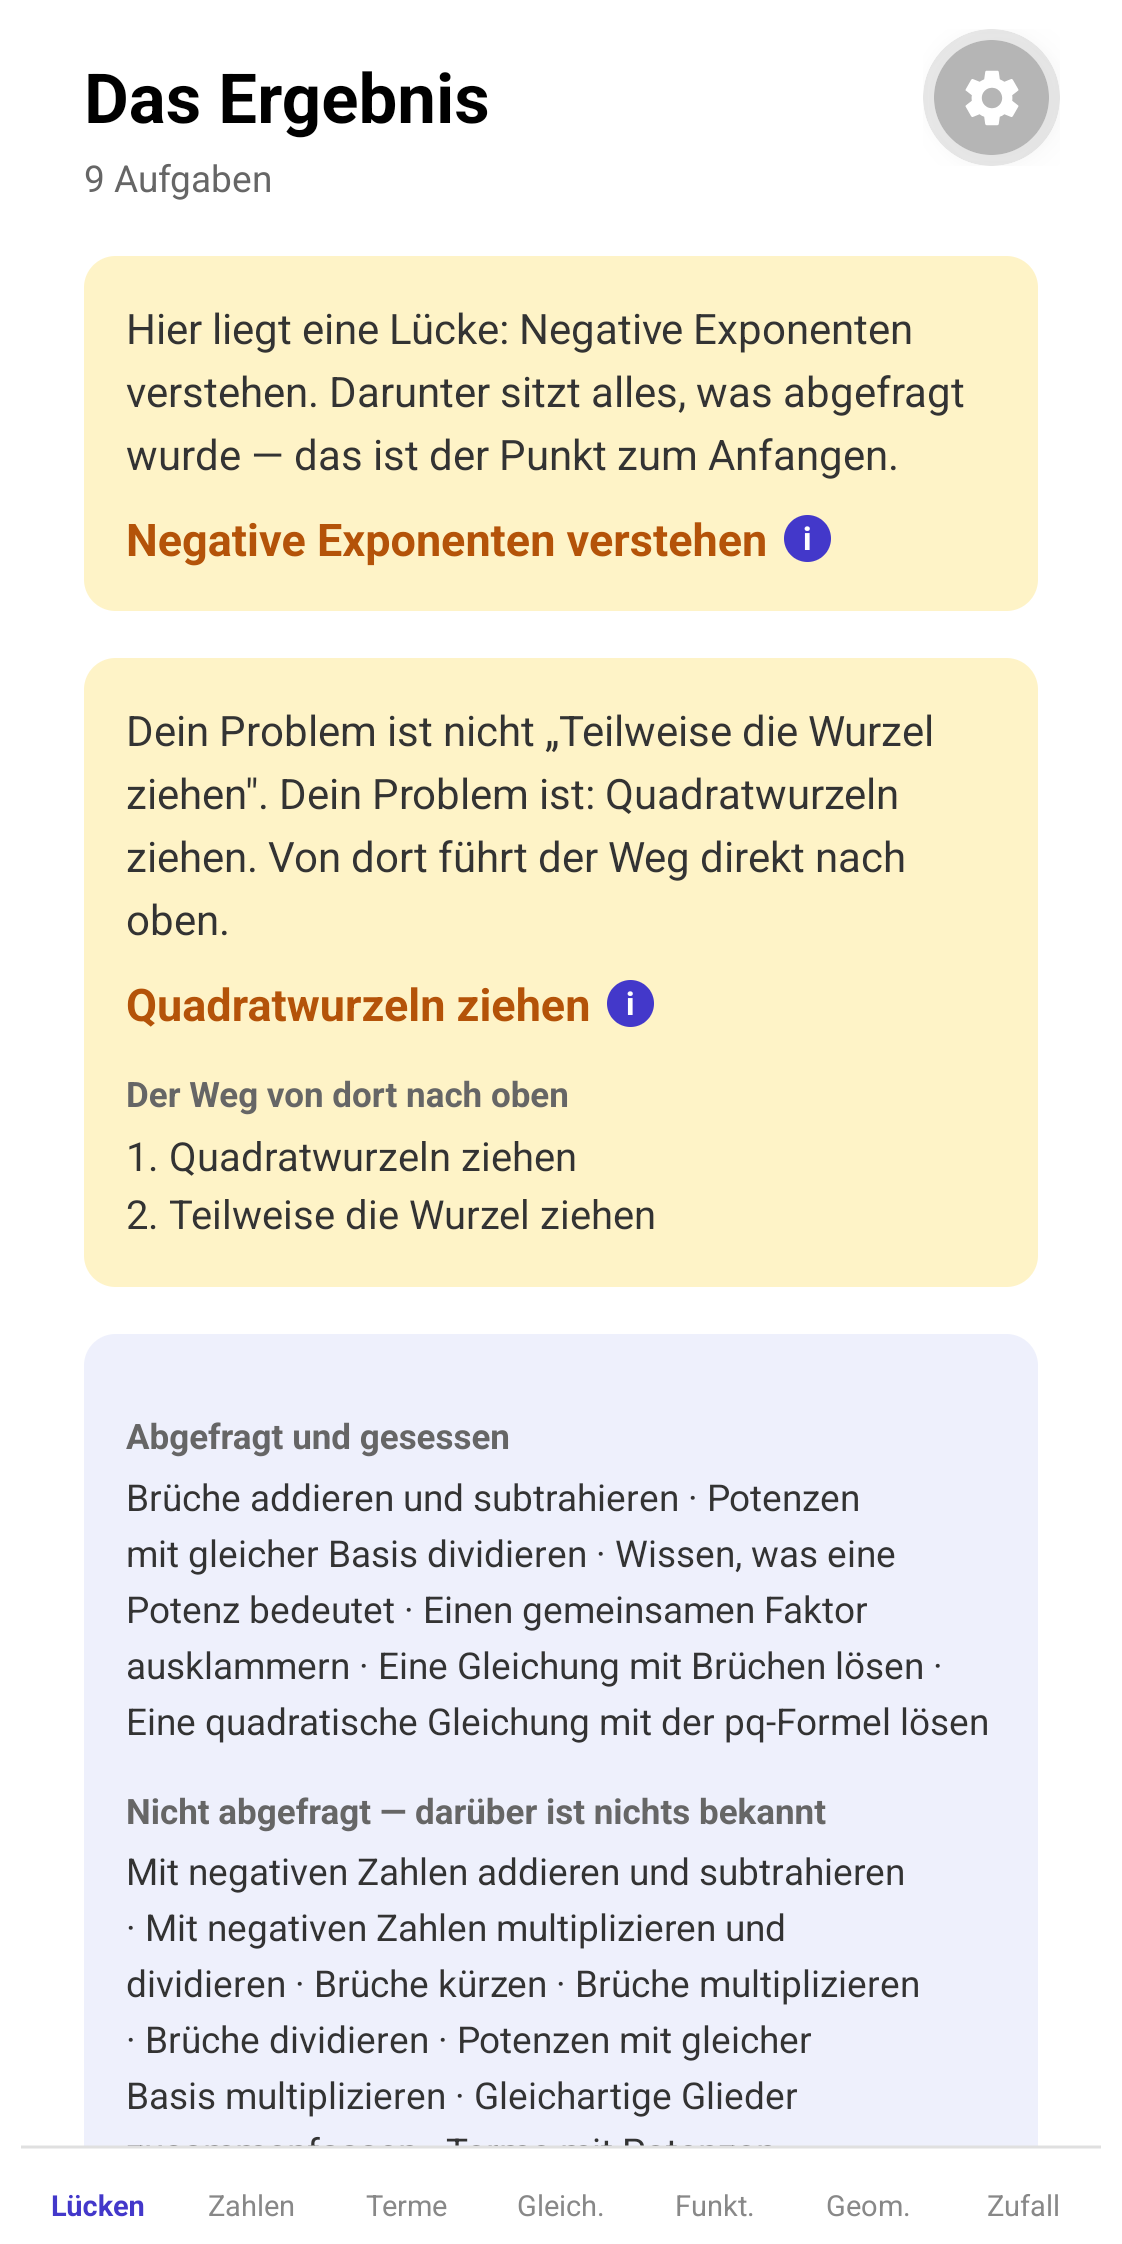
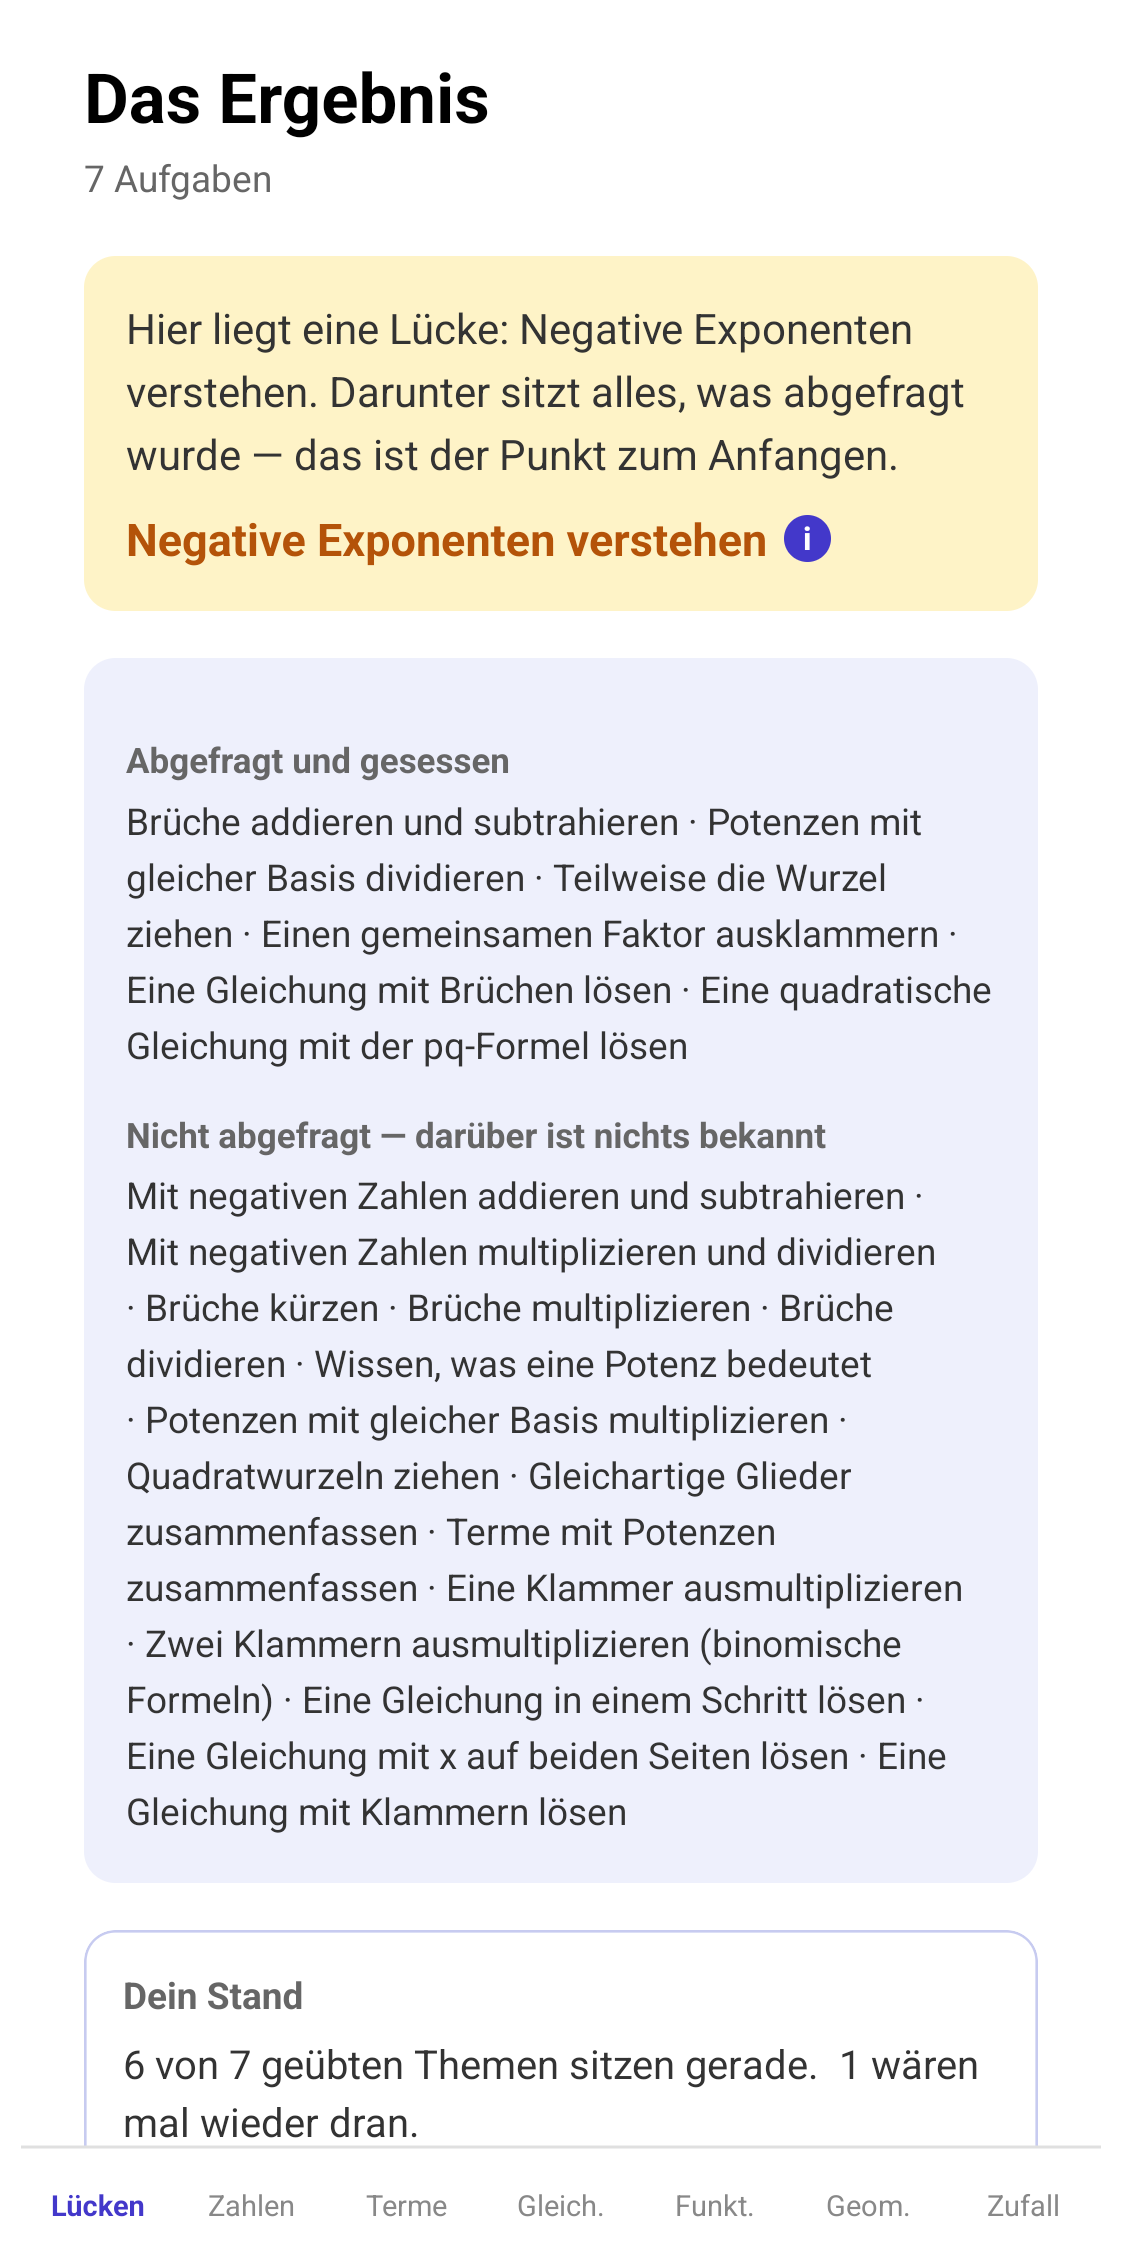
Screenshots neu — aus der echten App statt aus Expo Go
Auf allen acht bisherigen Bildern saß oben rechts ein grauer
Zahnrad-Knopf. Der gehört nicht zur App: Es ist der "Tools"-Knopf von
Expo Go. App.js rendert nur Inhalt und Tab-Leiste, es gibt gar keine
Kopfzeile mit Bedienelement. Der Store-Eintrag hätte damit etwas
gezeigt, das kein Nutzer je sieht.

Aufgefallen ist es nicht beim Anschauen der Bilder — ich hatte sie
mehrfach vor Augen —, sondern beim Gegenlesen der Familienrichtlinie,
als ich wissen wollte, was dieser Knopf eigentlich tut und ihn im Code
nicht fand.

Neu aufgenommen aus einem installierten APK (Profil preview). Die Probe
dafür steht jetzt in CLAUDE.md: Im Fokus muss
com.hink.mathe/com.hink.mathe.MainActivity stehen, nicht
host.exp.exponent. Und der Zuschnitt wird an genau der Stelle
gegengeprüft, an der der Knopf saß — weiß heißt sauber.

Der Durchlauf des Lückenfinders ist diesmal klarer geraten: genau EINE
Lücke ("Negative Exponenten verstehen"), alles darunter abgefragt und
richtig. Beim ersten Mal standen dort zwei Befunde, einer davon nur
deshalb, weil meine Automatisierung eine Eingabe verschluckt hatte.

Claude-Session: https://claude.ai/code/session_019KhvU7xvjHLP6VD4y9TvRL

diff --git a/CLAUDE.md b/CLAUDE.md
@@ -866,10 +866,29 @@ als `#000000` und nicht als `gray(0)`. Der Filter traf nie, und gemeldet
 wurde die Bildecke. Aufgefallen ist es nur, weil die Zahl (721 px)
 offensichtlich unmöglich war.
 
-### Screenshots kommen aus dem Emulator, nicht vom Handy
+### Screenshots: aus dem echten Build, NICHT aus Expo Go
+Der erste Satz Screenshots war unbrauchbar, und es fiel erst beim
+Gegenlesen der Familienrichtlinie auf: Auf allen acht Bildern saß oben
+rechts ein grauer Zahnrad-Knopf. **Der gehört nicht zur App** — es ist der
+„Tools"-Knopf von Expo Go. Die App hat gar keine Kopfzeile mit
+Bedienelement; `App.js` rendert nur Inhalt und Tab-Leiste.
+
+Ein Store-Eintrag hätte damit etwas gezeigt, das kein Nutzer je sieht.
+Deshalb: **Screenshots immer aus einem installierten Build**, nie aus
+Expo Go. Der Weg dahin:
+
+```
+eas build --local --platform android --profile preview   # ergibt ein APK
+adb install -r build-*.apk
+adb shell monkey -p com.hink.mathe -c android.intent.category.LAUNCHER 1
+```
+
+Danach steht im Fokus `com.hink.mathe/com.hink.mathe.MainActivity` statt
+`host.exp.exponent` — das ist die Probe, dass man die richtige App
+fotografiert.
+
 Aufgenommen mit `adb exec-out screencap` auf dem AVD
-`Medium_Phone_API_36.1` (1080×2400), während die App über
-`npx expo start --android` aus Expo Go lief. Durchgeklickt wurde mit
+`Medium_Phone_API_36.1` (1080×2400). Durchgeklickt wurde mit
 `adb shell input tap`; die Koordinaten liefert **`uiautomator dump`**, denn
 aus einem verkleinerten Bildschirmfoto abgeschätzte Werte treffen den
 Info-Knopf um über hundert Pixel daneben.
@@ -887,6 +906,9 @@ Drei Fallen, alle drei zuerst hineingetappt:
    Lückenfinders stand danach eine Lücke, die es nicht gibt. Seitdem prüft
    das Tippen selbst nach, ob der Text im Feld steht, und wiederholt sich
    sonst.
+
+Gegengeprüft wird der Zuschnitt an der Stelle, an der der Expo-Go-Knopf
+saß: Ist das Pixel dort weiß, ist kein Rest davon im Bild.
 
 Das Ergebnis muss auf **1:2** gebracht werden: Der Emulator liefert
 1:2,22, Google lässt höchstens 1:2 zu. Gestaucht litte die Schrift, also
